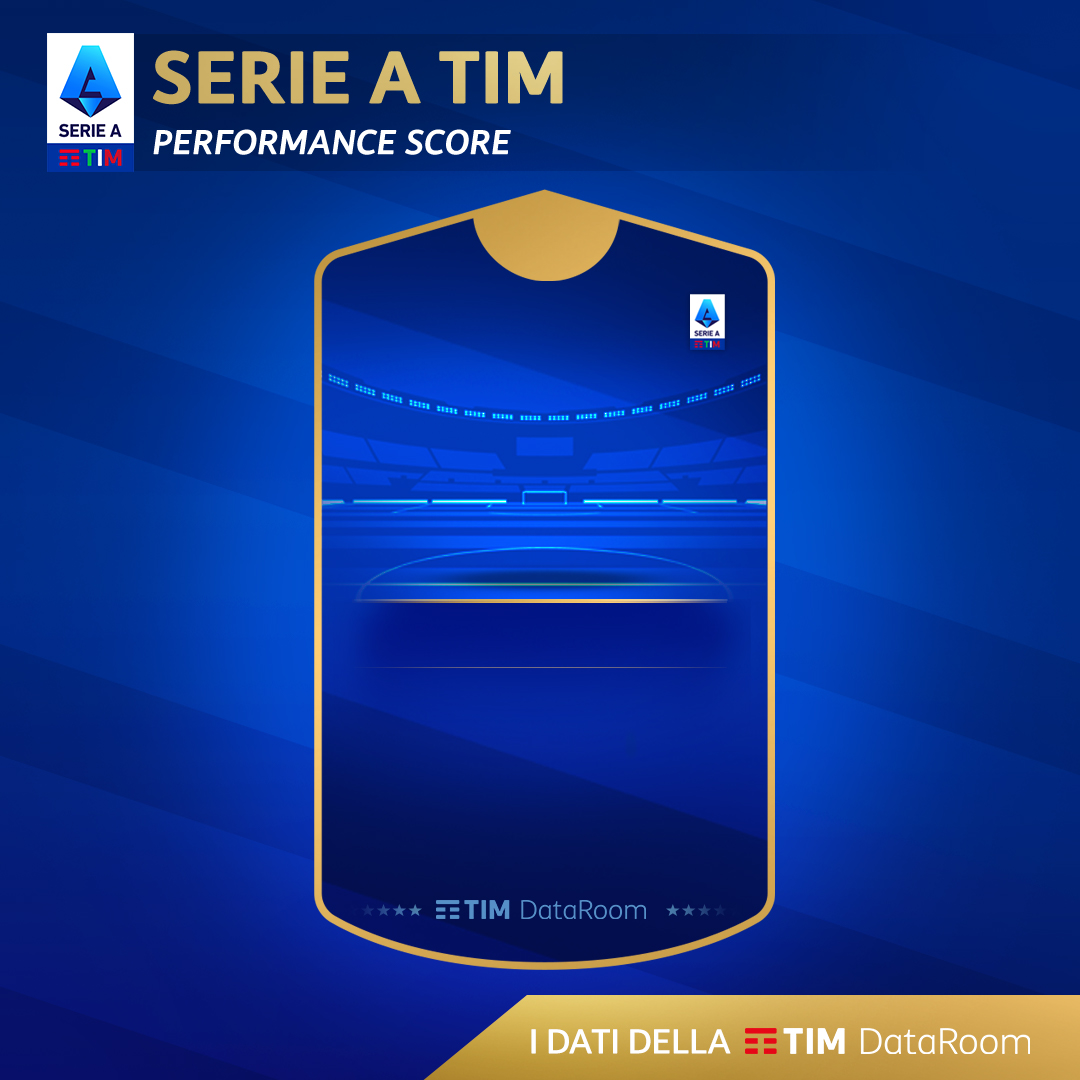
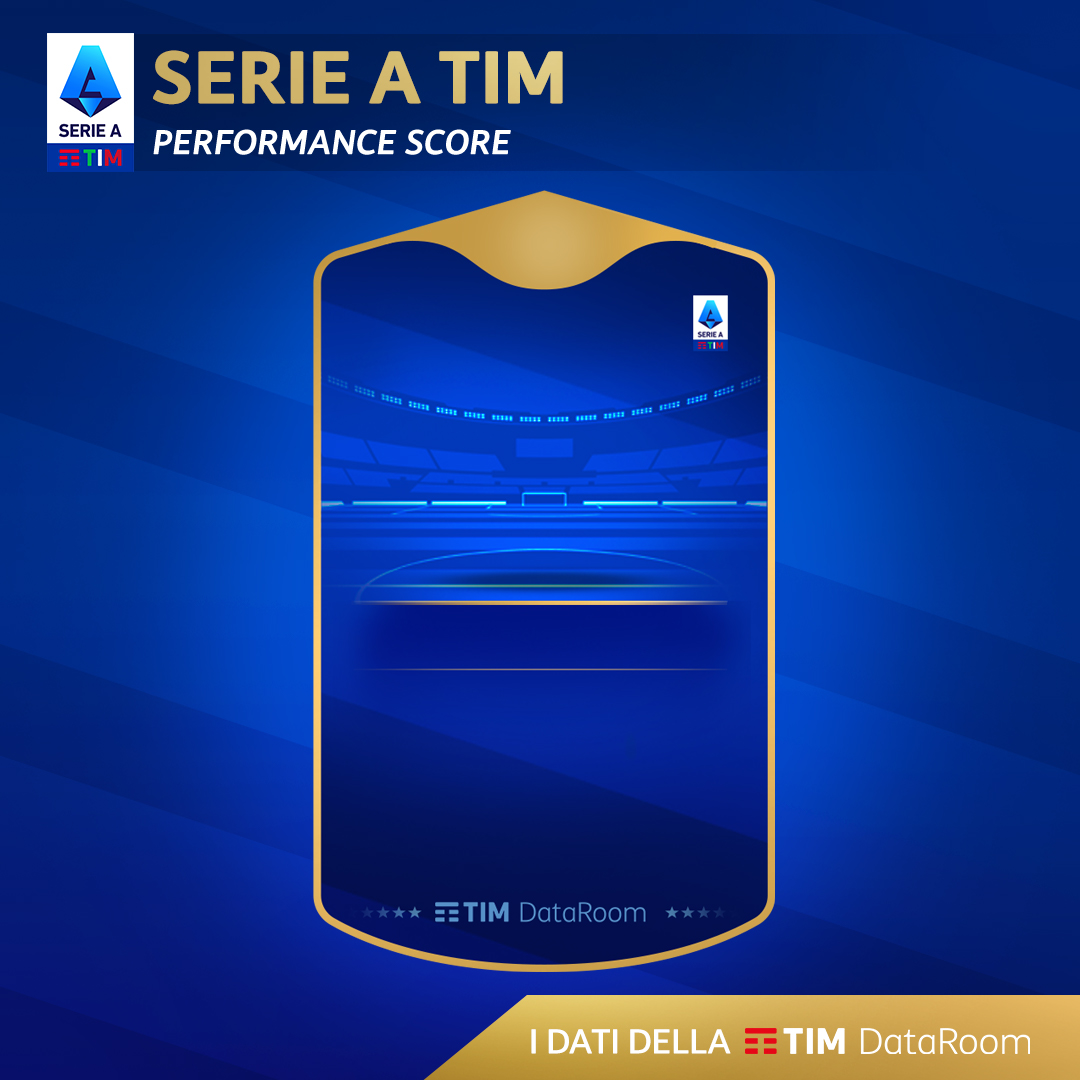
Changed the background and some style tweaking

diff --git a/skins/soccer_performance_score/index.htm b/skins/soccer_performance_score/index.htm
@@ -95,7 +95,7 @@
 
         .home-away {
             position: absolute;
-            top: 285px;
+            top: 295px;
             left: 475px;
             width: 134px;
             text-align: center;
@@ -135,12 +135,12 @@
             height: 100%;
             position: absolute;
             left: -7px;
-            top: 0;
+            top: 10px;
         }
 
         .shirt-number {
             position: absolute;
-            top: 40px;
+            top: 50px;
             left: 0;
             width: 262px;
             text-align: center;
@@ -173,7 +173,7 @@
             color: #8bdff2;
             position: absolute;
             top: 355px;
-            right: 430px;
+            right: 427px;
             font-size: 12px;
             width: 50px;
             text-align: center;
